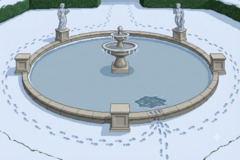
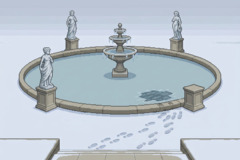
fix: improve ornamental pond image

diff --git a/mmbasic/src-graphics/prompts/LOC005_ORNAMENTAL_POND.md b/mmbasic/src-graphics/prompts/LOC005_ORNAMENTAL_POND.md
@@ -8,4 +8,4 @@ In the centre of the pond stands a stone fountain, switched off for winter — a
 
 On the ice itself, within the pond's boundary wall, near the edge closest to the empty pedestal, is a small patch of darker, rougher ice — no larger than a dinner plate — as if broken there and refrozen. This patch is part of the ice surface, not on the snow or lawn outside the wall. Keep it small and localised and separate from the central fountain; the rest of the ice remains smooth pale blue-grey. Show the broken patch as opaque ice only, nothing visible beneath it.
 
-The snow around the pond is heavily marked with footprints in several distinct trails — prints approaching the wall from the surrounding lawn, prints circling the pond's edge, and a cluster of prints converging right at the low wall beside the bare pedestal, near the small broken patch of ice. Beyond the pedestals, open lawn or hedging suggests the wider grounds. Cold, flat winter daylight. No figures.
+Two sets of overlapping flat-footed bootprints crosses the snow near the pond. The first set heads from the direction of the terrace to the pond. The second set heads back from the pond to the terrace. The footprints are slightly offset from one another rather than perfectly overlaid — ending at the low wall beside the bare pedestal, near the small broken patch of ice. The rest of the snow around the pond lies otherwise undisturbed. Beyond the pedestals, open lawn or hedging suggests the wider grounds. Cold, flat winter daylight. No figures. 

diff --git a/TODO.md b/TODO.md
@@ -1,6 +1,5 @@
 # TODO: The Sealed Room Murder (MMBasic)
 
-- GFX: fix ornamental pond image
 - "Fix" intrusive [MORE] prompts
 - Implement (obfuscated) walkthrough
 - Objects that currently have no associated dialogue
